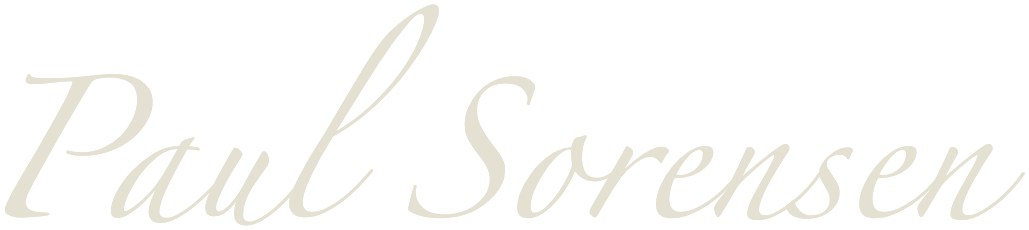
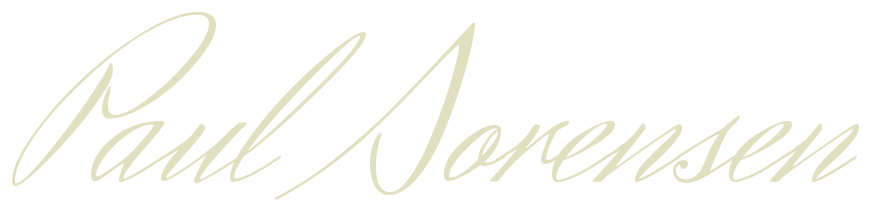
design: sign in Herr Von Muellerhoff, smaller, with the name in alt text
Claude-Session: https://claude.ai/code/session_01AzrtEogoc5wqhR2Eq3UAPi

Changed region(s): [[0.0, 0.0283, 1.0, 0.9906], [0.155, 0.1132, 0.186, 0.1698], [0.124, 0.1981, 0.155, 0.2547]]

diff --git a/styles/site.css b/styles/site.css
@@ -139,17 +139,18 @@ main .stage {
 .tile.small:hover .line { color: var(--bone); }
 .tile.small .shot .ph { font-size: 0.55rem; letter-spacing: 0.12em; }
 
-/* the signature: Zapfino pre-rendered to an image asset so the one-font-pair
-   invariant holds without shipping a third face. Kept small and faint, warmed
-   toward the gold, and tilted the way a hand leaves it, not a logo. */
+/* the signature: Herr Von Muellerhoff pre-rendered to an image asset so the
+   one-font-pair invariant holds without shipping a third face. The alt text
+   carries the name for search; the image itself stays small and faint,
+   warmed toward the gold, and tilted the way a hand leaves it. */
 footer .wrap { align-items: center; }
 .signature {
-  block-size: 1.4rem;
+  block-size: 1.5rem;
   inline-size: auto;
-  margin-block: -0.3rem;
-  opacity: 0.28;
+  margin-block: -0.2rem;
+  opacity: 0.42;
   filter: sepia(0.6) saturate(1.4);
-  transform: rotate(-3deg) translateY(0.1rem);
+  transform: rotate(-2deg) translateY(0.05rem);
   transform-origin: left center;
   user-select: none;
 }

diff --git a/index.html b/index.html
@@ -99,7 +99,7 @@
   </div>
 </main>
 <footer>
-  <div class="wrap"><span>milk in, wheels out 🧀</span><img class="signature" src="assets/signature.png" alt="" width="343" height="77"></div>
+  <div class="wrap"><span>milk in, wheels out 🧀</span><img class="signature" src="assets/signature.png" alt="Paul Sorensen" width="871" height="212"></div>
 </footer>
 <script>
   if (matchMedia("(prefers-reduced-motion: reduce)").matches) {
